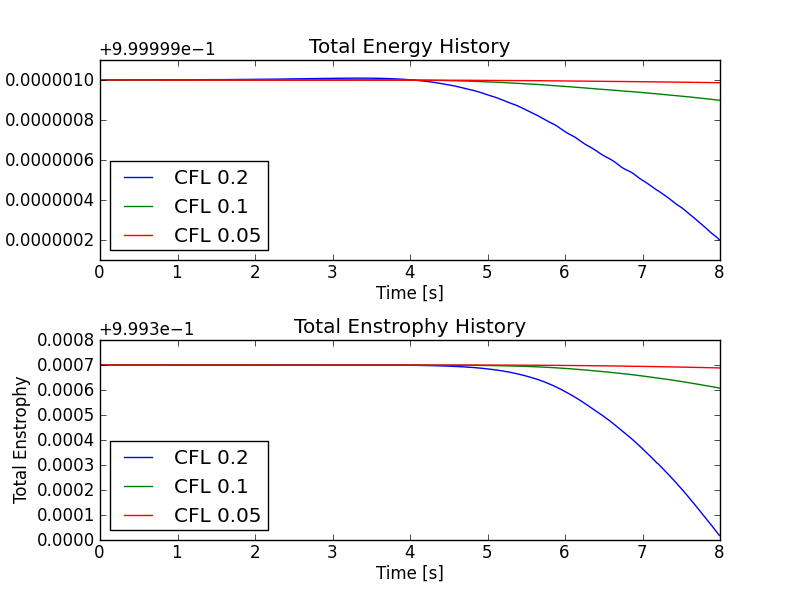
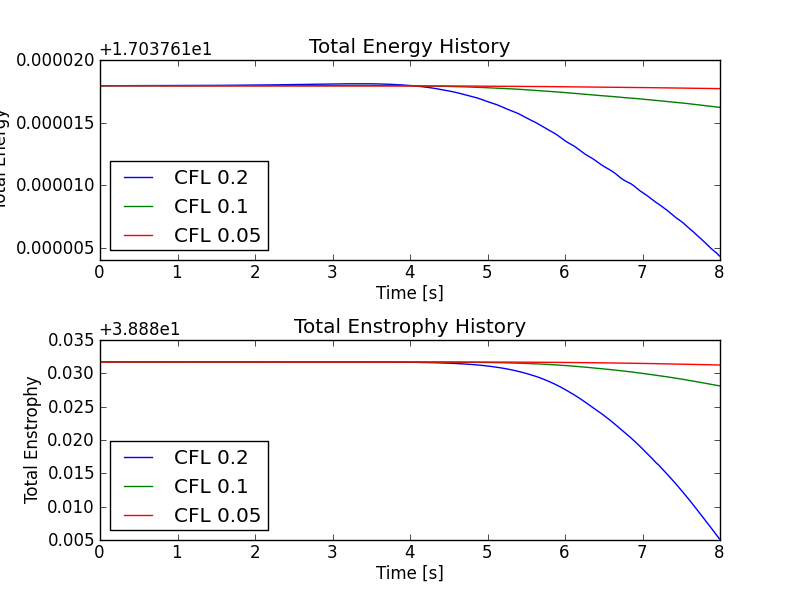
Added more figures and text.

diff --git a/sims/s136/plot-vortex-waltz-cmp.py b/sims/s136/plot-vortex-waltz-cmp.py
@@ -77,7 +77,7 @@ def projectOnFinerGrid_f(Xc, Yc, q):
 
     return Xn, Yn, qn
 
-tEnd = 8
+tEnd = 100.0
 nFrame = 11
 
 T = pylab.linspace(0, tEnd, nFrame)
@@ -120,6 +120,46 @@ pylab.axis('image')
 pylab.title('T=%f' % T[10])
     
 pylab.savefig('s134s136-vortex-waltz_cmp.png')
+pylab.close()
+
+fig = pylab.figure(2)
+fig.subplots_adjust(hspace=0.4)
+fig.subplots_adjust(wspace=0.4)
+
+pylab.subplot(2,1,1)
+tr_134 = pylab.loadtxt('../s134/s134-vortex-waltz_totalEnergy')
+tr_135 = pylab.loadtxt('../s135/s135-vortex-waltz_totalEnergy')
+tr_136 = pylab.loadtxt('../s136/s136-vortex-waltz_totalEnergy')
+
+refTe = tr_134[0,1]
+
+pylab.plot(tr_134[:,0], abs(tr_134[:,1]-tr_134[0,1])/tr_134[0,1], label='64x64')
+pylab.plot(tr_135[:,0], abs(tr_135[:,1]-tr_135[0,1])/tr_135[0,1], label='128x128')
+pylab.plot(tr_136[:,0], abs(tr_136[:,1]-tr_136[0,1])/tr_136[0,1], label='256x256')
+pylab.legend(loc='upper left')
+pylab.title('Energy Error History')
+pylab.xlabel('Time [s]')
+pylab.ylabel('Total Energy')
+
+print "64x64", abs(tr_134[-1,1]-tr_134[0,1])/tr_134[0,1]*100
+print "128x128", abs(tr_135[-1,1]-tr_135[0,1])/tr_135[0,1]*100
+print "256x256", abs(tr_136[-1,1]-tr_136[0,1])/tr_136[0,1]*100
+
+pylab.subplot(2,1,2)
+tr_134 = pylab.loadtxt('../s134/s134-vortex-waltz_totalEnstrophy')
+tr_135 = pylab.loadtxt('../s135/s135-vortex-waltz_totalEnstrophy')
+tr_136 = pylab.loadtxt('../s136/s136-vortex-waltz_totalEnstrophy')
+
+pylab.plot(tr_134[:,0], abs(tr_134[:,1]-tr_134[0,1])/tr_134[0,1], label='64x64')
+pylab.plot(tr_135[:,0], abs(tr_135[:,1]-tr_135[0,1])/tr_135[0,1], label='128x128')
+pylab.plot(tr_136[:,0], abs(tr_136[:,1]-tr_136[0,1])/tr_136[0,1], label='256x256')
+
+refTe = tr_134[0,1]
+pylab.legend(loc='upper left')
+pylab.title('Enstrophy Error History')
+pylab.xlabel('Time [s]')
+pylab.ylabel('Enstrophy Error')
+pylab.savefig('s134s135s136-vortex-waltz-totalEnergyEnstrophy_cmp.png')
 pylab.close()
 
 fh.close()

diff --git a/sims/s133/plot-double-shear-cmp.py b/sims/s133/plot-double-shear-cmp.py
@@ -130,9 +130,9 @@ tr_132 = pylab.loadtxt('../s132/s132-double-shear_totalEnergy')
 tr_133 = pylab.loadtxt('../s133/s133-double-shear_totalEnergy')
 
 refTe = tr_131[0,1]
-pylab.plot(tr_131[:,0], (tr_131[:,1]-tr_131[0,1]+refTe)/refTe, label='CFL 0.2')
-pylab.plot(tr_132[:,0], (tr_132[:,1]-tr_132[0,1]+refTe)/refTe, label='CFL 0.1')
-pylab.plot(tr_133[:,0], (tr_133[:,1]-tr_133[0,1]+refTe)/refTe, label='CFL 0.05')
+pylab.plot(tr_131[:,0], tr_131[:,1], label='CFL 0.2')
+pylab.plot(tr_132[:,0], tr_132[:,1], label='CFL 0.1')
+pylab.plot(tr_133[:,0], tr_133[:,1], label='CFL 0.05')
 pylab.legend(loc='lower left')
 pylab.title('Total Energy History')
 pylab.xlabel('Time [s]')
@@ -150,9 +150,9 @@ tr_132 = pylab.loadtxt('../s132/s132-double-shear_totalEnstrophy')
 tr_133 = pylab.loadtxt('../s133/s133-double-shear_totalEnstrophy')
 
 refTe = tr_131[0,1]
-pylab.plot(tr_131[:,0], (tr_131[:,1]-tr_131[0,1]+refTe)/refTe, label='CFL 0.2')
-pylab.plot(tr_132[:,0], (tr_132[:,1]-tr_132[0,1]+refTe)/refTe, label='CFL 0.1')
-pylab.plot(tr_133[:,0], (tr_133[:,1]-tr_133[0,1]+refTe)/refTe, label='CFL 0.05')
+pylab.plot(tr_131[:,0], tr_131[:,1], label='CFL 0.2')
+pylab.plot(tr_132[:,0], tr_132[:,1], label='CFL 0.1')
+pylab.plot(tr_133[:,0], tr_133[:,1], label='CFL 0.05')
 pylab.legend(loc='lower left')
 pylab.title('Total Enstrophy History')
 pylab.xlabel('Time [s]')

diff --git a/sims/s137/plot-vortex-waltz.py b/sims/s137/plot-vortex-waltz.py
@@ -189,7 +189,7 @@ dy = (yup-ylo)/ny
 Xc = pylab.linspace(xlo+0.5*dx, xup-0.5*dx, nx)
 Yc = pylab.linspace(ylo+0.5*dy, yup-0.5*dy, ny)
 
-tEnd = 8
+tEnd = 100.0
 nFrame = 11
 
 T = pylab.linspace(0, tEnd, nFrame)

diff --git a/sims/s138/plot-vortex-waltz.py b/sims/s138/plot-vortex-waltz.py
@@ -189,7 +189,7 @@ dy = (yup-ylo)/ny
 Xc = pylab.linspace(xlo+0.5*dx, xup-0.5*dx, nx)
 Yc = pylab.linspace(ylo+0.5*dy, yup-0.5*dy, ny)
 
-tEnd = 8
+tEnd = 100.0
 nFrame = 11
 
 T = pylab.linspace(0, tEnd, nFrame)

diff --git a/sims/s139/plot-vortex-waltz.py b/sims/s139/plot-vortex-waltz.py
@@ -189,7 +189,7 @@ dy = (yup-ylo)/ny
 Xc = pylab.linspace(xlo+0.5*dx, xup-0.5*dx, nx)
 Yc = pylab.linspace(ylo+0.5*dy, yup-0.5*dy, ny)
 
-tEnd = 8
+tEnd = 100.0
 nFrame = 11
 
 T = pylab.linspace(0, tEnd, nFrame)

diff --git a/sims/s134/plot-vortex-waltz.py b/sims/s134/plot-vortex-waltz.py
@@ -87,7 +87,7 @@ dy = (yup-ylo)/ny
 Xc = pylab.linspace(xlo+0.5*dx, xup-0.5*dx, nx)
 Yc = pylab.linspace(ylo+0.5*dy, yup-0.5*dy, ny)
 
-tEnd = 8
+tEnd = 100.0
 nFrame = 11
 
 T = pylab.linspace(0, tEnd, nFrame)

diff --git a/sims/s135/plot-vortex-waltz.py b/sims/s135/plot-vortex-waltz.py
@@ -87,7 +87,7 @@ dy = (yup-ylo)/ny
 Xc = pylab.linspace(xlo+0.5*dx, xup-0.5*dx, nx)
 Yc = pylab.linspace(ylo+0.5*dy, yup-0.5*dy, ny)
 
-tEnd = 8
+tEnd = 100.0
 nFrame = 11
 
 T = pylab.linspace(0, tEnd, nFrame)

diff --git a/sims/s136/plot-vortex-waltz.py b/sims/s136/plot-vortex-waltz.py
@@ -87,7 +87,7 @@ dy = (yup-ylo)/ny
 Xc = pylab.linspace(xlo+0.5*dx, xup-0.5*dx, nx)
 Yc = pylab.linspace(ylo+0.5*dy, yup-0.5*dy, ny)
 
-tEnd = 8
+tEnd = 100.0
 nFrame = 11
 
 T = pylab.linspace(0, tEnd, nFrame)

diff --git a/sims/s138/plot-vortex-waltz-cmp.py b/sims/s138/plot-vortex-waltz-cmp.py
@@ -119,7 +119,7 @@ def projectOnFinerGrid_f3(Xc, Yc, q):
 
     return Xn, Yn, qn
 
-tEnd = 8
+tEnd = 100.0
 nFrame = 11
 
 T = pylab.linspace(0, tEnd, nFrame)

diff --git a/je/je13/je13-incomp-euler-2d.rst b/je/je13/je13-incomp-euler-2d.rst
@@ -167,7 +167,12 @@ zero.
 
   Total energy (top) and total enstrophy (bottom) history with
   different CFL numbers with central flux. Both energy and enstrophy
-  errors go to zero with the order of time-stepping scheme. See
+  errors go to zero with the order of time-stepping scheme. The drop
+  in energy is :math:`1.36\times 10^{-5}`, :math:`1.73\times 10^{-6}`
+  and :math:`2.29\times 10^{-7}` respectively, giving an order of 2.97
+  and 2.91 respectively. The drop in enstrophy is :math:`2.66\times
+  10^{-2}`, :math:`3.59\times 10^{-3}` and :math:`4.578\times 10^{-4}`
+  respectively, giving an order of 2.88 and 2.97 respectively. See
   [:doc:`s131 <../../sims/s131/s131-double-shear>`], [:doc:`s132
   <../../sims/s132/s132-double-shear>`] and [:doc:`s133
   <../../sims/s133/s133-double-shear>`] for the input files.
@@ -205,6 +210,26 @@ fluxes.
   <../../sims/s134/s134-vortex-waltz>`] grid, while the right panel
   shows the solution with :math:`256 \times 256` [:doc:`s136
   <../../sims/s136/s136-vortex-waltz>`] grid.
+
+The errors in energy and enstrophy with different grid sizes is shown
+in the figure below. Note the relatively small drop in energy (on the
+order of :math:`10^{-4}` percent) even for the coarse grid
+simulation.
+
+.. figure:: s134s135s136-vortex-waltz-totalEnergyEnstrophy_cmp.png
+  :width: 100%
+  :align: center
+
+  Error in energy (top) and enstrophy (bottom) for the vortex waltz
+  problem. The simulations were run on :math:`64 \times 64`
+  [:doc:`s134 <../../sims/s134/s134-vortex-waltz>`], :math:`128 \times
+  128` [:doc:`s135 <../../sims/s135/s135-vortex-waltz>`] and
+  :math:`256 \times 256` [:doc:`s136
+  <../../sims/s136/s136-vortex-waltz>`] grids. The error in energy is
+  on the order of :math:`10^{-4}` percent even for the coarse grid
+  simulation. Notice that as the upwind flux is used, the enstrophy
+  drop is significant, on the order of 6-14 percent for all the
+  simulations.
 
 The figure below shows the solutions on :math:`32\times 32` and
 :math:`64\times 64` grids using the third order scheme with upwind

diff --git a/je/je12/je12-poisson-bracket.rst b/je/je12/je12-poisson-bracket.rst
@@ -45,13 +45,18 @@ Temporal Convergence
 In the first set of tests the temporal convergence is tested. For this
 a Gaussian pulse :math:`\chi(x,y,0) = \exp(-75(x-x_c)^2)` is
 initialized, where :math:`x_c = 0.5` and :math:`x \in [0,1]` with
-periodic boundary conditions. The potential is set to
-:math:`\psi(x,y)=y` which advects the pulse with constant speed in the
-X-direction. Simulations were run on a :math:`32\times 4` grid to
+periodic boundary conditions.
+
+The potential is set to :math:`\psi(x,y)=y` which advects the pulse
+with constant speed in the X-direction. Note that even though the
+problem is periodic we can not apply periodic BCs to the potential due
+to the linear variation in the Y direction.
+
+Simulations were run on a :math:`32\times 4` grid to
 :math:`t=1.0`. The time-steps were adjusted to CFL numbers of 0.2,
 0.1, 0.05 and 0.025. To isolate the errors from the temporal
 discretization alone the differences in the solution were computed
-between successive results and their convergence computed. 
+between successive results and their convergence computed.
 
 The results with Runge-Kutta second-order schemes is presented in the
 following table.
@@ -124,11 +129,12 @@ as
 
 .. math::
 
-  \psi(x,y) =y - x
+  \psi(x,y) = y - x
 
-giving an advection speed of :math:`\sqrt{2}` top right corner of the
-domain. For all problems, the time-step was held fixed for all spatial
-resolutions.
+giving an advection speed of :math:`\sqrt{2}` towards the top right
+corner of the domain. As in the previous problem, boundary conditions
+can not be applied to the potential. For all problems, the time-step
+was held fixed for all spatial resolutions.
 
 In the first set of tests, the convergence of the second-order scheme
 is tested. This scheme uses the second-order 4-node Lobatto elements
